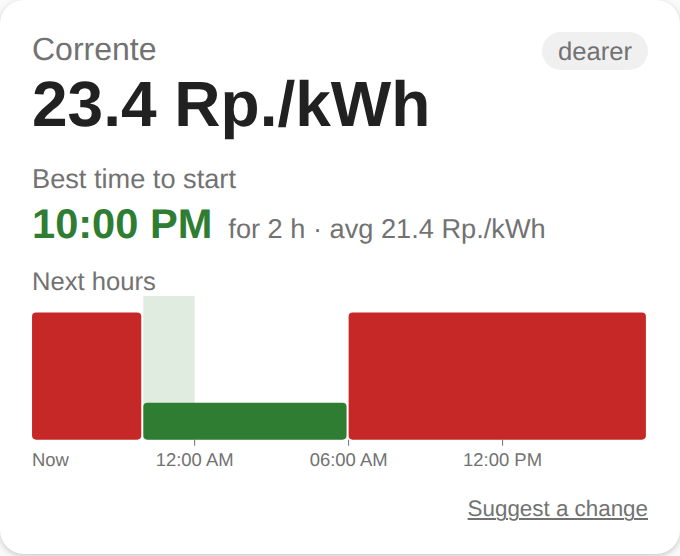
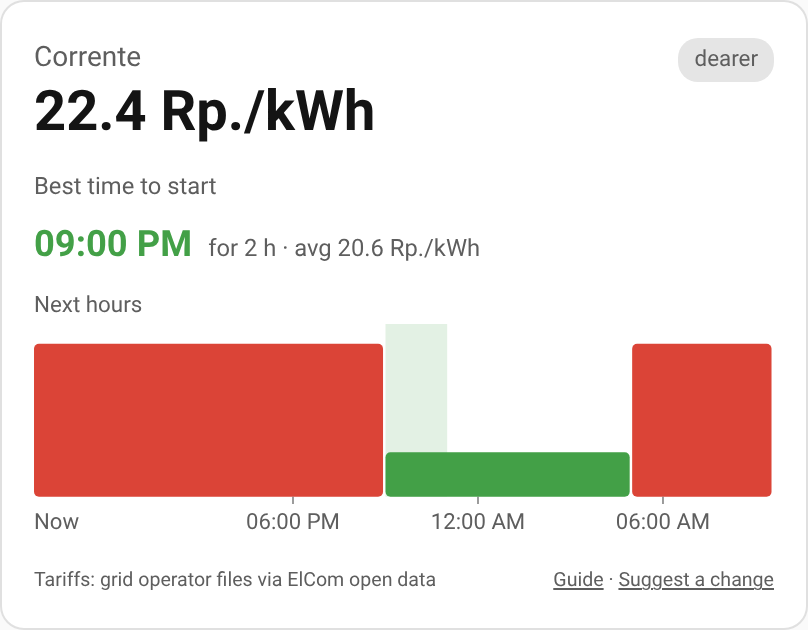
Card footer links stay together; pre-launch docs and screenshots (0.3.13)
The card's "Guide · Suggest a change" links broke across lines next to a
long data source. They now form one block that moves to its own line when
there is too little room.

Docs: Primeo NetzDynamisch works in 2026 (README, Italian guide, launch
posts said 2027); Italian guide brought up to date on costs and the card;
new card, guide and dashboard screenshots taken on Home Assistant 2026.11.0.

Claude-Session: https://claude.ai/code/session_01D7MDcvgtunehyx1ydpfKbP

diff --git a/custom_components/corrente/frontend/corrente-card.js b/custom_components/corrente/frontend/corrente-card.js
@@ -168,7 +168,7 @@ class CorrenteCard extends HTMLElement {
       `<a href="${SUGGEST_URL}" target="_blank" rel="noopener">${t.suggest}</a>`;
     // "guide: false" hides the link to Corrente's guide.
     const guide = this._config.guide === false ? "" : `<a href="${GUIDE_PATH}" class="guide">${t.guide}</a>`;
-    const links = guide || suggest ? `<span>${[guide, suggest].filter(Boolean).join(" · ")}</span>` : "";
+    const links = guide || suggest ? `<span class="links">${[guide, suggest].filter(Boolean).join(" · ")}</span>` : "";
     const footHtml = a.attribution || links ? `<div class="foot">${source}${links}</div>` : "";
 
     this.shadowRoot.innerHTML = `
@@ -190,8 +190,11 @@ class CorrenteCard extends HTMLElement {
         rect.bestband { fill: var(--cheap); opacity: .15; }
         line.tick { stroke: var(--secondary-text-color); stroke-width: .5; }
         .msg { color: var(--error-color, #c62828); }
-        .foot { display: flex; justify-content: space-between; gap: 8px; margin-top: 8px; font-size: .7rem; color: var(--secondary-text-color); }
-        .foot a { color: inherit; white-space: nowrap; flex-shrink: 0; }
+        .foot { display: flex; flex-wrap: wrap; justify-content: space-between; gap: 4px 8px; margin-top: 8px; font-size: .7rem; color: var(--secondary-text-color); }
+        .foot > span:first-child { flex: 1 1 180px; }
+        /* the links stay together: on a narrow card they move to a line of their own */
+        .foot .links { white-space: nowrap; margin-left: auto; }
+        .foot a { color: inherit; }
       </style>
       <ha-card>
         <div class="head"><span class="title">${title}</span>${chip ? `<span class="chip">${chip}</span>` : ""}</div>

diff --git a/custom_components/corrente/core/version.py b/custom_components/corrente/core/version.py
@@ -1,5 +1,5 @@
 """Corrente's version, as in manifest.json (a test keeps the two equal)."""
 
-VERSION = "0.3.12"
+VERSION = "0.3.13"
 # Sent to every data source, so they can see who is calling and how to reach us.
 USER_AGENT = f"Corrente/{VERSION} (+https://github.com/MichaelPito/ha-corrente)"

diff --git a/docs/guida-it.md b/docs/guida-it.md
@@ -43,7 +43,7 @@ Le fasce seguono le regole ARERA:
 1. Scegli **Svizzera** e scrivi il nome del tuo **comune**.
 2. Corrente trova il tuo **gestore di rete** nei dati aperti di ElCom e legge il suo file delle tariffe.
 3. Scegli la tua **tariffa dell'energia**, per esempio "Casa & PMI giorno-notte". Corrente propone la tariffa di rete e i tributi che vanno con quella scelta: confrontali con la bolletta e conferma.
-4. **Tariffe dinamiche** (prezzo diverso ogni quarto d'ora): se il gestore le pubblica con l'API standard, compaiono nell'elenco e Corrente scarica da sola i prezzi di oggi e, appena escono, quelli di domani. Oggi funziona con EKZ (*Energie Dynamisch*, *Netz 400D*) e Groupe E (*Vario*). AIL e AMB per ora pubblicano i prezzi dinamici solo sul loro sito: non sono ancora supportati.
+4. **Tariffe dinamiche** (prezzo diverso ogni quarto d'ora): se il gestore le pubblica con l'API standard, compaiono nell'elenco e Corrente scarica da sola i prezzi di oggi e, appena escono, quelli di domani. Oggi funziona con EKZ (*Energie Dynamisch*, *Netz 400D*), Groupe E (*Vario*) e Primeo (*NetzDynamisch*, Basilea Campagna e Soletta). AIL e AMB per ora pubblicano i prezzi dinamici solo sul loro sito: non sono ancora supportati.
 5. Se il gestore non ha pubblicato un file leggibile (succede per esempio con SES e, nel 2026, con AMB), puoi incollare il link al file, oppure [segnalarcelo](https://github.com/MichaelPito/ha-corrente/issues/new/choose) e lo aggiungiamo noi.
 
 Il prezzo svizzero include IVA, supplemento di rete, riserva elettrica, servizi di sistema Swissgrid e tributi cantonali e comunali. Le quote fisse mensili sono in un sensore a parte.
@@ -58,7 +58,7 @@ Dopo la configurazione, nella barra laterale compare **Corrente**: una guida che
 
 ## Quanto ho speso oggi?
 
-Nelle **opzioni** di Corrente scegli **Contatore** e indica il sensore che conta i tuoi consumi in kWh (contatore intelligente, Shelly, consumo dalla rete della dashboard energia). Compaiono due sensori, **Costo di oggi** e **Costo del mese**: ogni kWh è pagato al prezzo del momento in cui l'hai consumato. In Italia il costo comprende solo la parte energia del contratto che hai inserito.
+Nelle **opzioni** di Corrente scegli **Contatore** e indica il sensore che conta i tuoi consumi in kWh (contatore intelligente, Shelly, consumo dalla rete della dashboard energia). Compaiono due sensori, **Costo di oggi** e **Costo del mese**: ogni kWh è pagato al prezzo del momento in cui l'hai consumato. In Italia il costo comprende la parte energia e, se li hai inseriti, gli altri costi per kWh della bolletta; i costi fissi al mese restano a parte.
 
 **Non hai ancora un sensore dei consumi?** Le strade, dalla più semplice:
 - **una pinza o un contatore nel quadro elettrico** (per esempio Shelly EM / Pro 3EM), installati da un elettricista: funzionano ovunque;
@@ -93,16 +93,16 @@ Nella dashboard energia di Home Assistant, nel consumo dalla rete, scegli di usa
 
 Dopo aver configurato Corrente la prima volta, **ricarica la pagina** del browser una volta, così trova la card.
 
-Nella dashboard: **Aggiungi scheda** → cerca **Corrente**. In YAML:
-
-Il nome del sensore dipende dalla lingua e dal comune (per esempio `sensor.corrente_lugano_prezzo_attuale`): se aggiungi la card dall'editor, lo trova da sola.
+Nella dashboard: **Aggiungi scheda** → cerca **Corrente**: l'editor trova da solo il sensore giusto. In YAML:
 
 ```yaml
 type: custom:corrente-card
 entity: sensor.corrente_prezzo_attuale
 ```
 
-La card mostra il prezzo adesso, le prossime 24 ore a colori (verde più economico, rosso più caro) e il momento migliore per avviare un apparecchio di 2 ore. In basso trovi la fonte dei dati e il link **Suggerisci una modifica**; per nasconderlo aggiungi `feedback: false`.
+Il nome del sensore dipende dalla lingua e dal comune (per esempio `sensor.corrente_lugano_prezzo_attuale`).
+
+La card mostra il prezzo adesso, le prossime 24 ore a colori (verde più economico, rosso più caro) e il momento migliore per avviare un apparecchio di 2 ore. In basso trovi la fonte dei dati e i link **Guida** e **Suggerisci una modifica**; per nasconderli aggiungi `guide: false` o `feedback: false`.
 
 ## Il prezzo non torna con la bolletta?
 

diff --git a/docs/LANCIO.md b/docs/LANCIO.md
@@ -32,7 +32,7 @@
 
 > Hi everyone! I'd like to share **Corrente**, a free and open-source integration that brings your *real* electricity price into Home Assistant.
 >
-> **Switzerland:** type your municipality, and Corrente finds your grid operator in ElCom's open data and reads the tariff file every operator must publish. High/low tariff windows, cantonal and municipal fees, federal charges and VAT are all included, and checked against ElCom's figures for your municipality. Before release I compared it with ElCom for every Swiss operator that publishes a readable tariff file (about 340 of 535): the grid price matches within 0.6 Rp/kWh for 95% of them, and fees missing from an operator's file are taken from ElCom. It works for most operators, Ticino included — and with **dynamic tariffs** (EKZ, Groupe E, and Primeo from 2027) it reads the quarter-hour prices from the operator's own API.
+> **Switzerland:** type your municipality, and Corrente finds your grid operator in ElCom's open data and reads the tariff file every operator must publish. High/low tariff windows, cantonal and municipal fees, federal charges and VAT are all included, and checked against ElCom's figures for your municipality. Before release I compared it with ElCom for every Swiss operator that publishes a readable tariff file (about 340 of 535): the grid price matches within 0.6 Rp/kWh for 95% of them, and fees missing from an operator's file are taken from ElCom. It works for most operators, Ticino included — and with **dynamic tariffs** (EKZ, Groupe E, Primeo) it reads the quarter-hour prices from the operator's own API.
 >
 > **Italy:** F1/F2/F3 time bands following ARERA's rules (holidays included) and your contract (monoraria, bioraria, trioraria), or a **PUN-indexed** contract with the quarter-hour prices published by GME. Optionally add the other costs from your bill (transport, system charges, excise, fixed charges) to get the whole price, not only the energy part.
 >
@@ -57,7 +57,7 @@
 
 **Testo:** (con lo screenshot della card)
 
-> Corrente is a free, open-source Home Assistant integration for Switzerland and Italy, installed from the Marketplace (Home Assistant 2026.11) or HACS. Swiss users type their municipality and get their grid operator's real tariff (high/low windows, fees, federal charges, VAT; dynamic quarter-hour prices for EKZ, Groupe E and, from 2027, Primeo), checked against ElCom's figures for about 340 operators. Italian users get the F1/F2/F3 bands or PUN-indexed prices from GME, plus the other costs from their bill if they want the whole price.
+> Corrente is a free, open-source Home Assistant integration for Switzerland and Italy, installed from the Marketplace (Home Assistant 2026.11) or HACS. Swiss users type their municipality and get their grid operator's real tariff (high/low windows, fees, federal charges, VAT; dynamic quarter-hour prices for EKZ, Groupe E and Primeo), checked against ElCom's figures for about 340 operators. Italian users get the F1/F2/F3 bands or PUN-indexed prices from GME, plus the other costs from their bill if they want the whole price.
 >
 > It shows the price now and the next change, the best time to start an appliance, what you spent today and this month (also per appliance), and comes with blueprints for cheap-hour starts, price alerts and solar surplus. A guide in the sidebar walks you through it.
 >

diff --git a/docs/PIANO.md b/docs/PIANO.md
@@ -499,3 +499,7 @@ solo utenti che le condividono, quindi sono una stima per difetto) e con le stel
   - nessuna richiesta nuova; il pacchetto dei test automatici per la 2026.11 non è ancora uscito (ultimo 0.13.375);
   - ✅ **kit di lancio aggiornato** (`docs/LANCIO.md`, parte del controllo prima del lancio): versione 0.3.12; i post dicono come installare dal Marketplace o da HACS, anche se il giorno dei post Corrente non fosse ancora nel catalogo (il link con «Aggiungi dal collegamento»); il post in italiano cita la guida nella barra laterale; nuovo punto 6b: togliere il passo del link da README e guida quando Corrente entra nel catalogo;
   - **Prossimi pezzi:** test automatici sulla 2026.11 appena esce il pacchetto; test a casa dell'owner; settimana del 9 novembre: resto del controllo prima del lancio (README, guida italiana, screenshot); dicembre: AEM 2027, Winterthur, AGE, gestori senza file; gennaio: BKW e voci federali nei prezzi dinamici di Primeo 2027.
+  - pomeriggio (owner: «ok, vai avanti»), **controllo prima del lancio, parte 2**:
+    - README e guida italiana: Primeo *NetzDynamisch* funziona già nel 2026 (c'era scritto «dal 2027», anche nei post del kit di lancio); guida italiana: costo con gli altri costi per kWh, link «Guida» della card e `guide: false`, sezione della card riordinata;
+    - 🐞 card: i link «Guida · Suggerisci una modifica» andavano a capo a metà; ora restano insieme e, se manca spazio, vanno su una riga loro → ✅ v0.3.13;
+    - screenshot nuovi, fatti su Home Assistant 2026.11.0: card di Lugano giorno-notte e PUN (italiano), EKZ dinamica (tedesco e inglese), Lugano (inglese), guida, dashboard della prova a casa. Da rifare più avanti: la GIF della configurazione (`setup.gif`, mostra la card vecchia). Restano nella cartella due immagini non più usate (`card-italia-it.png`, `card-lugano-de-dark.png`): si possono togliere solo con l'ok dell'owner, non è urgente.

diff --git a/README.md b/README.md
@@ -34,7 +34,7 @@
 - Checked before release against ElCom for every operator with a readable tariff file (about 340 of 535 for 2027): the grid price matches within 0.6 Rp/kWh for 95% of them.
 - Follows your operator into the new year by itself.
 - Works for most operators, Ticino included (AIL Lugano, AIM Mendrisio, AEM Massagno…). Corrente also follows the web page your operator registered with ElCom to the tariff file it links to. If your operator has not published a readable file, you can paste the link — or [tell us](../../issues/new/choose) and we add it.
-- **Dynamic tariffs** with prices per quarter hour, read from the operator's own API when its tariff file names one (VSE / SmartGridready standard): EKZ *Energie Dynamisch* and *Netz 400D*, Groupe E *Vario*, Primeo *Dynamisch* (from 2027), and any other operator using the standard with public prices. Today's prices, and tomorrow's as soon as the operator publishes them.
+- **Dynamic tariffs** with prices per quarter hour, read from the operator's own API when its tariff file names one (VSE / SmartGridready standard): EKZ *Energie Dynamisch* and *Netz 400D*, Groupe E *Vario*, Primeo *NetzDynamisch* (Basel-Landschaft, Solothurn), and any other operator using the standard with public prices. Today's prices, and tomorrow's as soon as the operator publishes them.
 
 ## Installation
 

diff --git a/docs/TEST-A-CASA.md b/docs/TEST-A-CASA.md
@@ -55,7 +55,7 @@ La repo è ancora privata, quindi HACS non può scaricarla: la copiamo a mano.
 1. **Impostazioni → Dispositivi e servizi → Aggiungi integrazione → Corrente**.
 2. Scegli **Svizzera**, scrivi **il tuo comune**, scegli **la tua tariffa** come sulla bolletta. Corrente propone la tariffa di rete e i tributi: se non sei sicuro, lascia quelli proposti.
 3. Apri il dispositivo Corrente e controlla, rispondendo alle domande qui sotto.
-4. **Ricarica la pagina** del browser (tasto F5, o ⌘R sul Mac), poi aggiungi la card: in una dashboard **Modifica → Aggiungi scheda** → cerca **Corrente**. Dovresti vedere qualcosa così (prova fatta da Claude su Home Assistant 2026.2, Lugano e un contratto italiano biorario):
+4. **Ricarica la pagina** del browser (tasto F5, o ⌘R sul Mac), poi aggiungi la card: in una dashboard **Modifica → Aggiungi scheda** → cerca **Corrente**. Dovresti vedere qualcosa così (prova fatta da Claude su Home Assistant 2026.11, Lugano giorno-notte e un contratto italiano biorario):
 
    ![Card di Corrente in Home Assistant](images/prova-dashboard-it.png)
 5. Se ti va, aggiungi anche una seconda configurazione **Italia** (per esempio un contratto biorario inventato) per vedere che funziona anche quella.

diff --git a/CHANGELOG.md b/CHANGELOG.md
@@ -2,6 +2,14 @@
 
 All notable changes to Corrente. Versions follow [Semantic Versioning](https://semver.org/).
 
+## [0.3.13] — 2026-11-06
+
+### Fixed
+- Card: the «Guide» and «Suggest a change» links no longer break apart at the end of a line; when the data source leaves too little room, they move together to a line of their own.
+
+### Documentation
+- README and Italian guide: Primeo's dynamic grid tariff *NetzDynamisch* works already in 2026 (it said «from 2027»); new screenshots of the card and of the guide.
+
 ## [0.3.12] — 2026-11-04
 
 ### Changed
